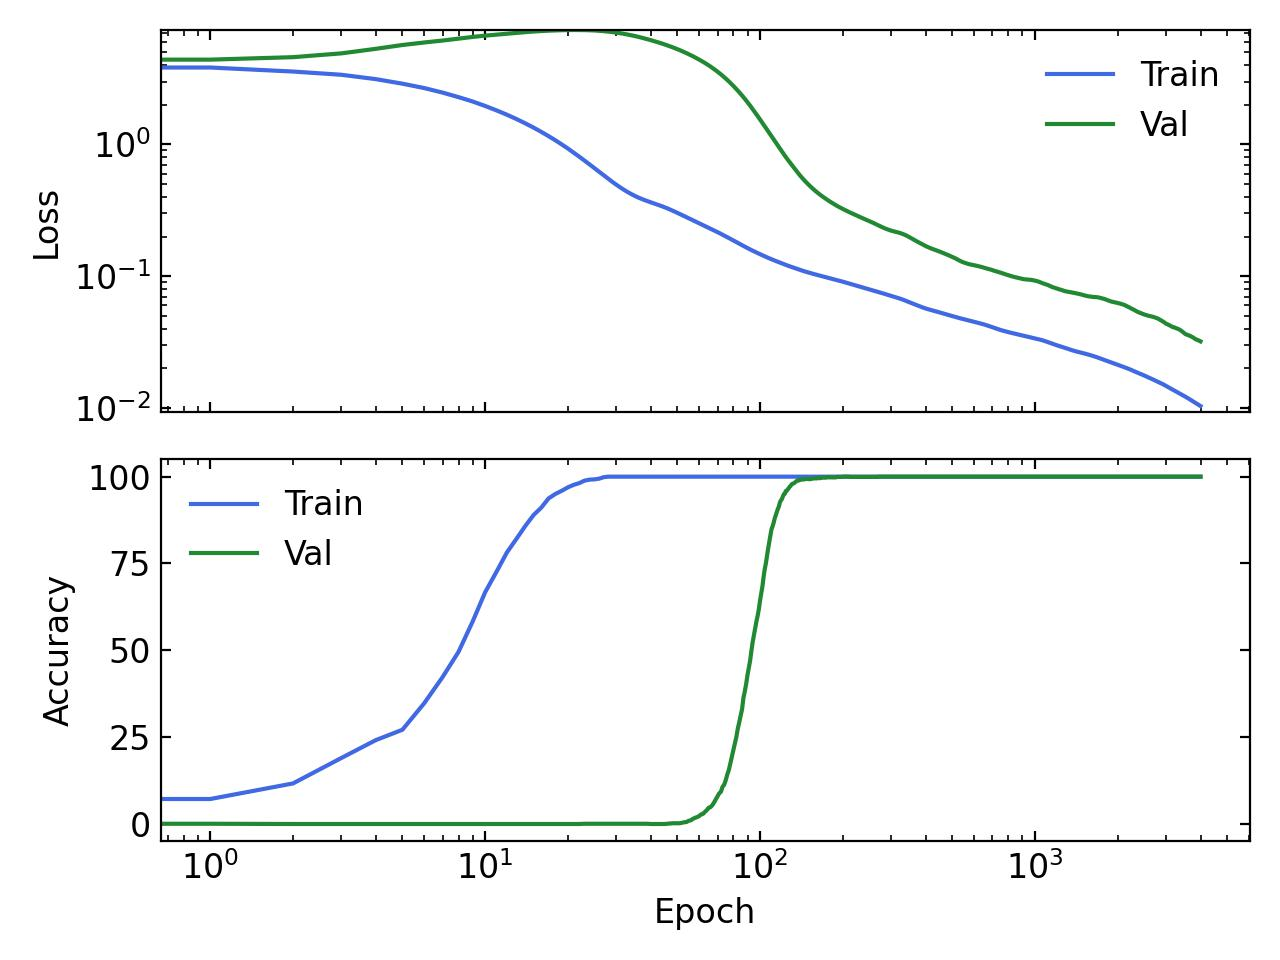
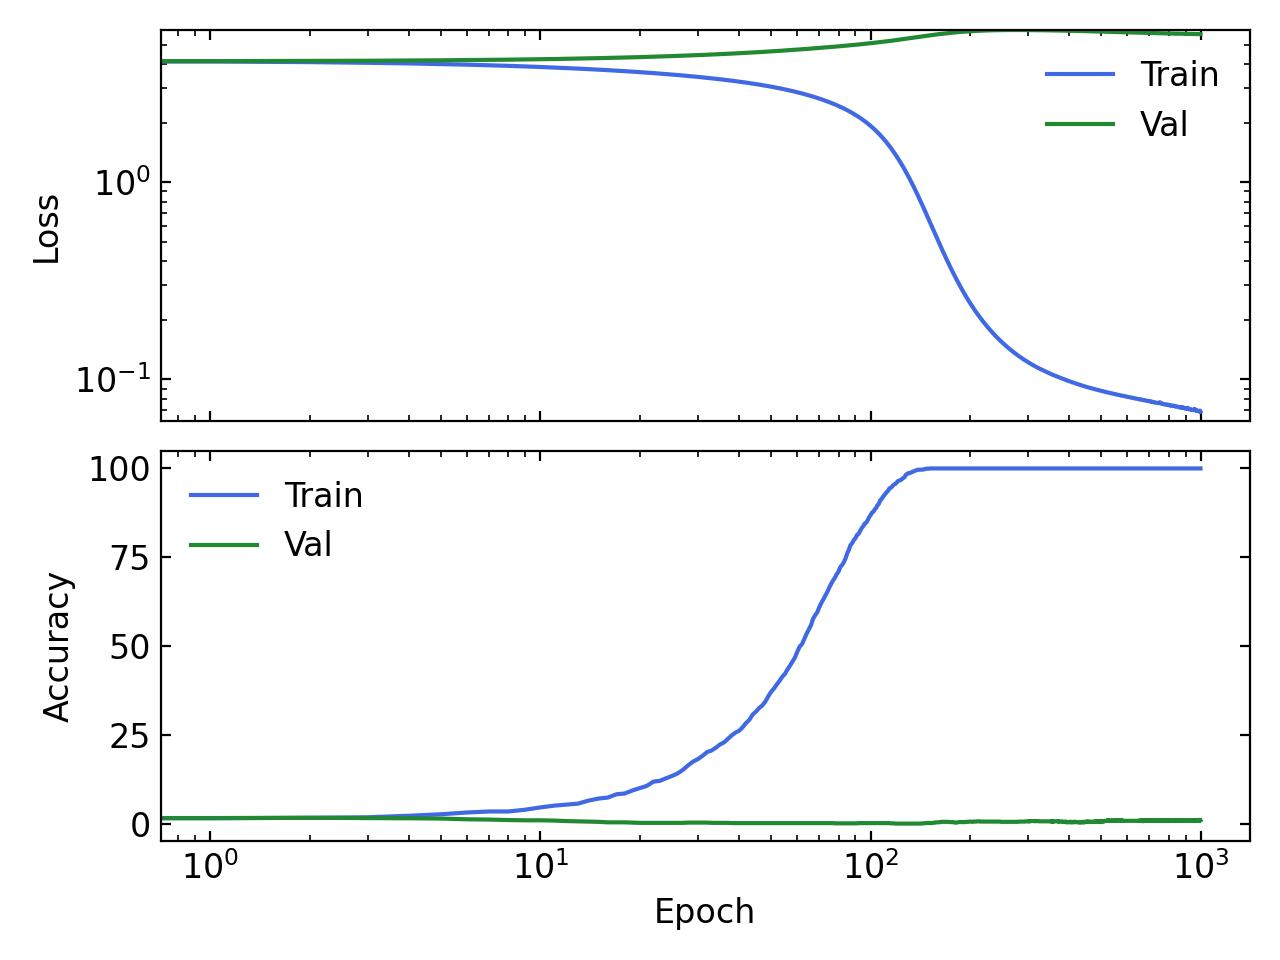
some edits

diff --git a/train.py b/train.py
@@ -10,13 +10,13 @@ log = "--log" in argv
 logger = Logger("grokking" if grok else "comprehension") if log else None
 
 # Hyperparameters
-num_epochs = 10000
-learning_rate = 3e-2
-weight_decay = 3e-2 if grok else 3
+num_epochs = 1000
+learning_rate = 3e-3
+weight_decay = 10
 
 # Data - sum of two numbers mod 53
 P = 53
-train_frac = 0.5
+train_frac = 0.35
 X = torch.cartesian_prod(torch.arange(P), torch.arange(P))
 y = (X[:, 0] + X[:, 1]) % P
 shuffle = torch.randperm(len(X))
@@ -24,17 +24,37 @@ X, y = X[shuffle], y[shuffle]
 X_train, X_val = X[: int(train_frac * len(X))], X[int(train_frac * len(X)) :]
 y_train, y_val = y[: int(train_frac * len(y))], y[int(train_frac * len(y)) :]
 
+# Residual Block
+class ResidualBlock(nn.Module):
+    def __init__(self, d_model, hidden_dim=256):
+        super(ResidualBlock, self).__init__()
+        self.nonlinear = torch.nn.Sequential(
+            nn.Linear(d_model, d_model),
+            nn.ReLU(),
+            nn.Linear(d_model, d_model),
+            nn.ReLU(),
+        )
+        self.norm = nn.LayerNorm(d_model)
+
+    def forward(self, x):
+        # return self.norm(x + self.nonlinear(x))
+        return self.nonlinear(x) + x
+
 # Model
 class Model(nn.Module):
     def __init__(self, hidden_dim=256):
         super(Model, self).__init__()
         self.embedding = nn.Embedding(P, hidden_dim)
-        self.fc1 = nn.Linear(2 * hidden_dim, hidden_dim)
+        self.nonlinear = torch.nn.Sequential(
+            nn.Linear(2 * hidden_dim, hidden_dim),
+            nn.ReLU(),
+            *[ResidualBlock(hidden_dim, 4*hidden_dim) for _ in range(3)],
+        )
         self.readout = nn.Linear(hidden_dim, P)
 
     def forward(self, x):
         x = self.embedding(x).flatten(start_dim=1)
-        x = torch.relu(self.fc1(x))
+        x = self.nonlinear(x)
         x = self.readout(x)
         return x
 

diff --git a/plot.py b/plot.py
@@ -129,9 +129,9 @@ if __name__ == "__main__":
     if not os.path.exists("log") or len(logs) == 0:
         print("No logs found. Run train.py first.")
         exit()
-
     for log in logs:
         log_dir = os.path.join("log", log)
         if "--anim" in argv:
             animate_embedddings(log_dir)
         plot_metrics(log_dir)
+        break
